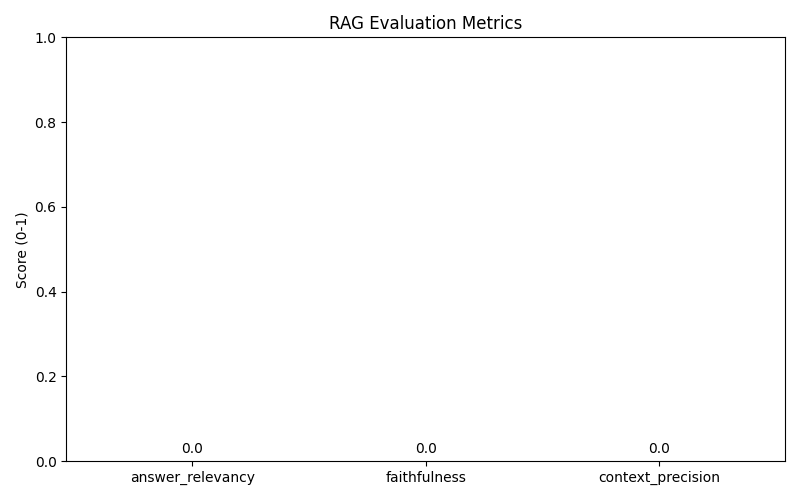
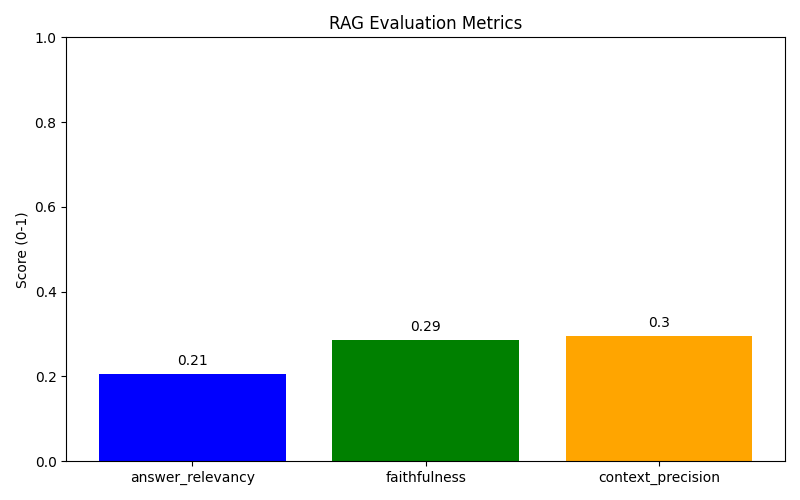
chore: enable hybrid search, update to LLaMA 3.3, and fix startup crashes

Changed region(s): [[0.4062, 0.63, 0.6562, 0.93], [0.6875, 0.63, 0.9375, 0.93], [0.125, 0.69, 0.375, 0.93]]

diff --git a/src/rag_chain.py b/src/rag_chain.py
@@ -2,6 +2,7 @@ import os
 import time
 from groq import Groq
 from .vectorstore import VectorStore
+from .retriever import HybridRetriever
 
 class RAGChain:
     def __init__(self):
@@ -9,12 +10,13 @@ class RAGChain:
         if not api_key:
             print("Warning: GROQ_API_KEY not found in environment!")
         self.client = Groq(api_key=api_key)
-        self.model = "llama-3.1-70b-versatile"
+        self.model = os.environ.get("LLM_MODEL", "llama-3.3-70b-versatile")
         self.vector_store = VectorStore()
+        self.retriever = HybridRetriever()
         self.history = []
         self.temperature = 0.1
         self.max_tokens = 1024
-        print("RAG Chain Ready! (FREE Groq)")
+        print(f"RAG Chain Ready! (Using model: {self.model})")
 
     def _build_context(self, results):
         parts = []
@@ -37,12 +39,12 @@ class RAGChain:
         prompt += f"Question: {question}\nAnswer:"
         return prompt
 
-    def ask(self, question: str):
+    def ask(self, question: str, top_k=5):
         start_time = time.time()
         if len(question) < 3:
             return {"answer": "Question too short.", "sources": []}
             
-        results = self.vector_store.search(question, top_k=5)
+        results = self.retriever.retrieve(question, top_k=top_k)
         if not results:
             return {
                 "answer": "I dont have this information in the documents.",
@@ -93,12 +95,12 @@ class RAGChain:
                 err = f"Error: {e}"
             return {"answer": err, "sources": []}
 
-    def ask_stream(self, question: str):
+    def ask_stream(self, question: str, top_k=5):
         if len(question) < 3:
             yield "Question too short."
             return
             
-        results = self.vector_store.search(question, top_k=5)
+        results = self.retriever.retrieve(question, top_k=top_k)
         if not results:
             yield "I dont have this information in the documents."
             return

diff --git a/app.py b/app.py
@@ -127,7 +127,7 @@ with st.sidebar:
     
     st.subheader("⚙ Settings")
     model_choice = st.selectbox("Model", [
-        "llama-3.1-70b-versatile",
+        "llama-3.3-70b-versatile",
         "llama-3.1-8b-instant",
         "mixtral-8x7b-32768"
     ])
@@ -206,11 +206,11 @@ if prompt := st.chat_input("Ask anything..."):
         placeholder = st.empty()
         
         with st.spinner("🔍 Searching..."):
-            sources = rag.vector_store.search(prompt, top_k=top_k)
+            sources = rag.retriever.retrieve(prompt, top_k=top_k)
             
         full_response = ""
         start_time = time.time()
-        for token in rag.ask_stream(prompt):
+        for token in rag.ask_stream(prompt, top_k=top_k):
             full_response += token
             placeholder.markdown(full_response + "▌")
             

diff --git a/src/vectorstore.py b/src/vectorstore.py
@@ -81,6 +81,29 @@ class VectorStore:
         except:
             pass
 
+_vector_store = None
+
+def get_vector_store():
+    global _vector_store
+    if _vector_store is None:
+        _vector_store = VectorStore()
+    return _vector_store
+
+def clear():
+    get_vector_store().clear()
+
+def store_documents(chunks):
+    return get_vector_store().store(chunks)
+
+def search(query, top_k=5):
+    return get_vector_store().search(query, top_k)
+
+def get_stats():
+    return get_vector_store().get_stats()
+
+def get_chroma_client():
+    return get_vector_store().collection
+
 if __name__ == "__main__":
     vs = VectorStore()
     sample_chunks = [{

diff --git a/src/embeddings.py b/src/embeddings.py
@@ -1,10 +1,18 @@
 from sentence_transformers import SentenceTransformer
 import numpy as np
 
+_model_instance = None
+
+def get_model():
+    global _model_instance
+    if _model_instance is None:
+        print("Loading FREE local embedding model...")
+        _model_instance = SentenceTransformer("all-MiniLM-L6-v2")
+    return _model_instance
+
 class EmbeddingModel:
     def __init__(self):
-        print("Loading FREE local embedding model...")
-        self.model = SentenceTransformer("all-MiniLM-L6-v2")
+        self.model = get_model()
         self.dimension = 384
         print(f"Dimension size: {self.dimension}")
 

diff --git a/pipeline.py b/pipeline.py
@@ -32,7 +32,7 @@ def run_pipeline(folder_path="data/documents"):
     
     stats = vs.get_stats()
     print("\n✅ PIPELINE COMPLETE!")
-    print(f"Total Chunks in DB: {stats.get('total_chunks', 0)}")
+    print(f"Total Chunks in DB: {stats.get('total', 0)}")
 
 def run_evaluation():
     """Runs evaluation with sample questions."""

diff --git a/api/main.py b/api/main.py
@@ -5,6 +5,9 @@ from pydantic import BaseModel
 import uvicorn
 import os
 import shutil
+from dotenv import load_dotenv
+
+load_dotenv(override=True)
 
 from src.rag_chain import RAGChain
 from src.guardrails import InputGuardrail, OutputGuardrail
